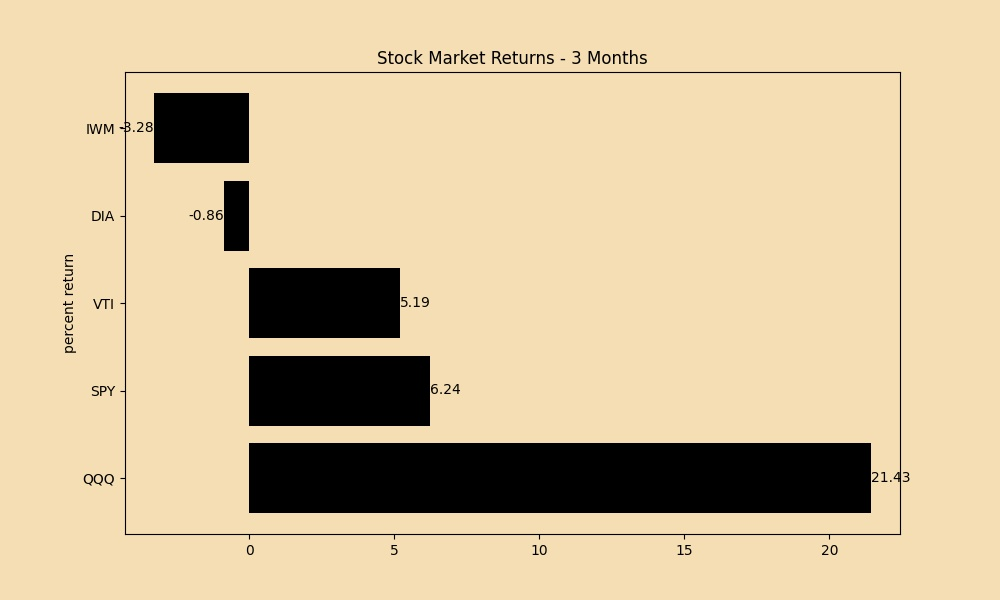
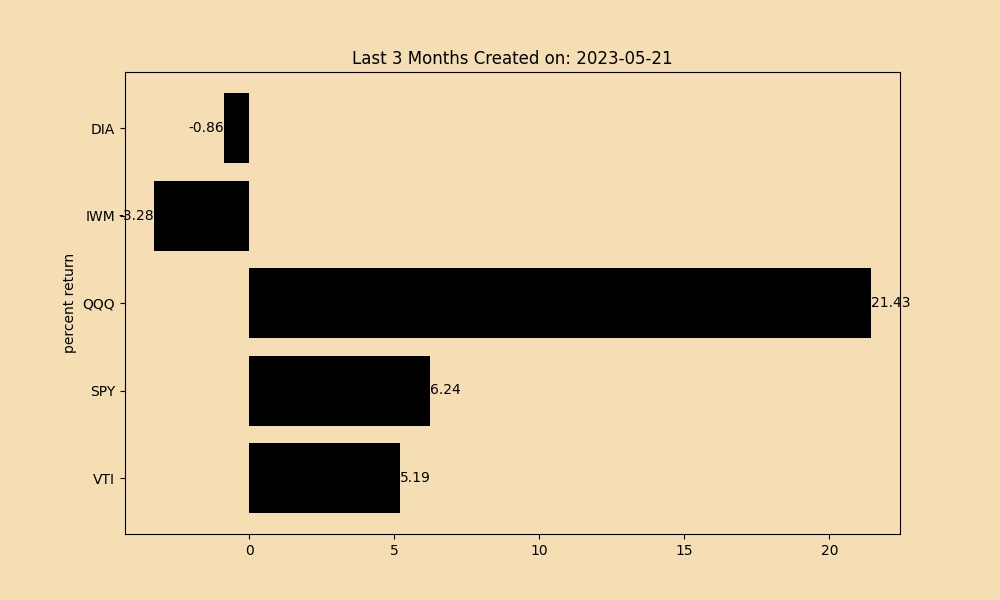
update returns viewport

diff --git a/dashboard.html b/dashboard.html
@@ -49,8 +49,10 @@
                     <img src="" alt="" id="current-image">
                 </div>
                 <br>
-                <button onclick="previousImage()">Previous</button>
-                <button onclick="nextImage()">Next</button>
+                <div class="bttn-container">
+                    <button onclick="previousImage()">Previous</button>
+                    <button onclick="nextImage()">Next</button>
+                </div>
             </section>
         </div>
         
@@ -107,8 +109,10 @@
         
         var images = [
             "images/stock return charts/market_returns_1 week.jpg",
-            "images/stock return charts/market_returns_1 month.jpg",
-            "images/stock return charts/market_returns_3 months.jpg",
+            "images/stock return charts/market_returns_1 Month.jpg",
+            "images/stock return charts/market_returns_3 Months.jpg",
+            "images/stock return charts/market_returns_6 Months.jpg",
+            "images/stock return charts/market_returns_1 Year.jpg"
             // Add more image URLs as needed
         ];
 

diff --git a/CSS/dashboard.css b/CSS/dashboard.css
@@ -49,8 +49,8 @@ iframe{
 
 /* CSS for the viewport */
 .viewport {
-    width: 500px;
-    height: 300px;
+    width: 600px;
+    height: 400px;
     overflow: hidden;
     border: 1px solid black;
 }
@@ -60,4 +60,31 @@ iframe{
     width: 100%;
     height: 100%;
     object-fit: cover;
+}
+
+.bttn-container{
+    display: flex;
+    flex-direction: row;
+    width: 400px;
+    justify-content: space-between;
+    align-items: center;
+}
+
+.bttn-container button{
+    width: 120px;
+    height: 50px;
+    border-radius: 10px;
+    border: 1px solid black;
+    background-color: wheat;
+    color: black;
+    font-family: 'Courier New', Courier, monospace;
+    font-size: 14px;
+    cursor: pointer;
+    transition: 0.1s;
+}
+
+.bttn-container button:hover{
+    background-color: black;
+    color: wheat;
+    border: 1px solid wheat;
 }

diff --git a/python/generate_performance_table.py b/python/generate_performance_table.py
@@ -1,5 +1,6 @@
 import yfinance as yf
 import pandas as pd
+from datetime import date
 import matplotlib.pyplot as plt
 
 tickers = ['DIA', 'IWM', 'QQQ', 'SPY', 'VTI']
@@ -15,11 +16,11 @@ for period, days in periods.items():
 
 for period in periods.keys():
 
-    table = returns_df.round(2).sort_values(by=f'{period}', ascending=False)
+    table = returns_df.round(2).sort_index(ascending=False)
     
     fig, ax = plt.subplots(figsize=(10, 6))
     bar_container = ax.barh(table.index, table[period].astype(float), color='black')
-    ax.set(ylabel='percent return', title=f'Stock Market Returns - {period}', xlim=(table[period].min()-1, table[period].max() + 1))
+    ax.set(ylabel='percent return', title=f'Last {period} Created on: {date.today()}', xlim=(table[period].min()-1, table[period].max() + 1))
     ax.bar_label(
         bar_container, fmt='%.2f', label_type='edge', color='black'
     )
